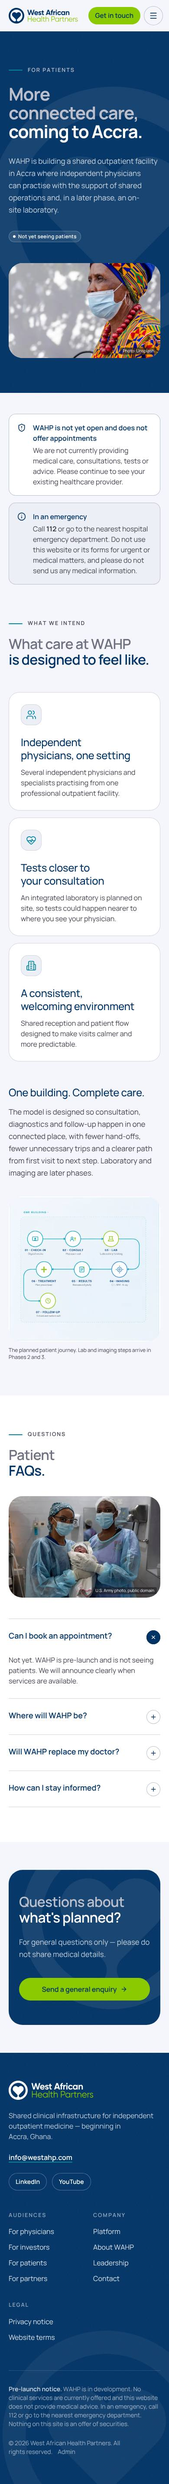
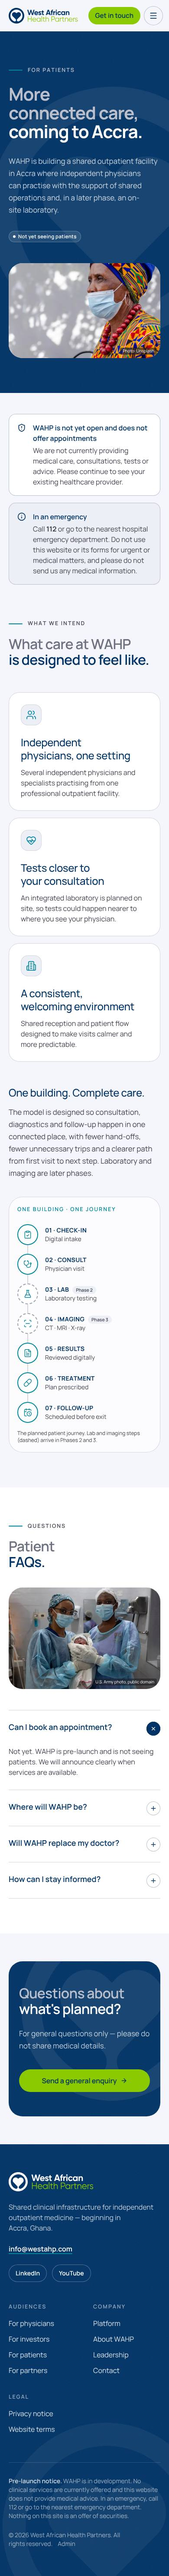
Animate the patient journey on the Patients page
Replaces the static patient-journey image with a live SVG: the route
draws from check-in to follow-up, each step pops in as the line reaches
it, then a dot travels the route and pauses at each step. Lab and
imaging are dashed and tagged Phase 2 / Phase 3. Phones get a vertical
step list, which is also the accessible version. Shows the finished
diagram without JS or with reduced motion.

Claude-Session: https://claude.ai/code/session_01HnAJZsQvwk15KduVTL9xGz

diff --git a/src/components/graphics/patient-journey.tsx b/src/components/graphics/patient-journey.tsx
@@ -1,0 +1,155 @@
+import type { CSSProperties } from "react";
+import {
+  CalendarClock,
+  ClipboardCheck,
+  FileText,
+  FlaskConical,
+  type LucideIcon,
+  Pill,
+  ScanLine,
+  Stethoscope,
+} from "lucide-react";
+
+/**
+ * The planned patient journey in one building (redrawn from the diagram on WAHP's newer site build), animated:
+ * the route draws from check-in to follow-up, each step pops in as the line reaches it, then a dot travels the
+ * route, pausing at each step. Lab and imaging are later phases, so they are drawn dashed and tagged.
+ * Styles: .journey-map in globals.css. Without JS, or with reduced motion, the finished diagram shows.
+ * Phones get the same steps as a vertical list (also the accessible version of the diagram).
+ */
+type Step = { title: string; detail: string; icon: LucideIcon; phase?: string; x: number; y: number; at: number };
+
+const R = 38;
+// Serpentine route through the step centres; `at` is each step's position along it (0–1).
+const ROUTE =
+  "M110 130 H580 A40 40 0 0 1 620 170 V270 A40 40 0 0 1 580 310 H70 A40 40 0 0 0 30 350 V450 A40 40 0 0 0 70 490 H160";
+const steps: Step[] = [
+  { title: "Check-in", detail: "Digital intake", icon: ClipboardCheck, x: 110, y: 130, at: 0 },
+  { title: "Consult", detail: "Physician visit", icon: Stethoscope, x: 320, y: 130, at: 0.138 },
+  { title: "Lab", detail: "Laboratory testing", icon: FlaskConical, phase: "Phase 2", x: 530, y: 130, at: 0.276 },
+  { title: "Imaging", detail: "CT · MRI · X-ray", icon: ScanLine, phase: "Phase 3", x: 530, y: 310, at: 0.49 },
+  { title: "Results", detail: "Reviewed digitally", icon: FileText, x: 320, y: 310, at: 0.628 },
+  { title: "Treatment", detail: "Plan prescribed", icon: Pill, x: 110, y: 310, at: 0.766 },
+  { title: "Follow-up", detail: "Scheduled before exit", icon: CalendarClock, x: 160, y: 490, at: 1 },
+];
+
+const DRAW = 4.5; // seconds for the route to draw
+
+// The travelling dot pauses briefly at each step: move, hold, move, hold…
+const hold = 0.045;
+const moveSpan = 1 - hold * steps.length;
+const frames: string[] = [];
+let t = 0;
+steps.forEach((s, i) => {
+  if (i > 0) t += (s.at - steps[i - 1].at) * moveSpan;
+  frames.push(`${(t * 100).toFixed(1)}% { offset-distance: ${(s.at * 100).toFixed(1)}%; }`);
+  t += hold;
+  frames.push(`${(Math.min(t, 1) * 100).toFixed(1)}% { offset-distance: ${(s.at * 100).toFixed(1)}%; }`);
+});
+const travelKeyframes = `@keyframes journey-travel { ${frames.join(" ")} }`;
+
+const v = (vars: Record<string, string | number>) => vars as CSSProperties;
+
+export function PatientJourney({ className = "" }: { className?: string }) {
+  return (
+    <figure
+      className={`reveal journey-map rounded-panel bg-white/70 p-5 ring-1 ring-inset ring-smoke md:p-8 ${className}`}
+      style={v({ "--draw": `${DRAW}s` })}
+    >
+      <style>{travelKeyframes}</style>
+      <p className="eyebrow flex items-center gap-3 text-teal">One building · one journey</p>
+
+      {/* Phones: vertical steps. Also the accessible version on larger screens. */}
+      <ol className="mt-6 space-y-5 md:sr-only">
+        {steps.map((s, i) => {
+          const Icon = s.icon;
+          return (
+            <li key={s.title} className="journey-step relative flex items-center gap-4" style={v({ "--i": i })}>
+              <span
+                className={`relative z-10 flex size-12 shrink-0 items-center justify-center rounded-full border-2 bg-white text-teal ${s.phase ? "border-dashed border-space" : "border-teal"}`}
+              >
+                <Icon aria-hidden className="size-5" strokeWidth={1.75} />
+              </span>
+              <span>
+                <span className="block text-sm font-bold tracking-wide text-navy uppercase">
+                  {String(i + 1).padStart(2, "0")} · {s.title}
+                  {s.phase && (
+                    <span className="ml-2 rounded-full bg-cloud px-2 py-0.5 text-[0.65rem] font-semibold tracking-normal text-arsenic normal-case">
+                      {s.phase}
+                    </span>
+                  )}
+                </span>
+                <span className="block text-sm text-arsenic">{s.detail}</span>
+              </span>
+            </li>
+          );
+        })}
+      </ol>
+
+      {/* Larger screens: the animated route. Decorative; the list above carries the content. */}
+      <svg aria-hidden viewBox="0 0 650 600" className="mt-4 hidden h-auto w-full md:block">
+        <path d={ROUTE} fill="none" stroke="#D3D6E0" strokeWidth="2" />
+        <path className="journey-route" d={ROUTE} pathLength={1} fill="none" stroke="#00879E" strokeWidth="2.5" />
+        {/* Drawn beneath the steps, so the dot slips into each one as it pauses there. */}
+        <g className="journey-dot" style={v({ offsetPath: `path("${ROUTE}")` })}>
+          <circle r="13" fill="#00879E" opacity="0.18" />
+          <circle r="6.5" fill="#00879E" stroke="#FFFFFF" strokeWidth="2" />
+        </g>
+        {steps.map((s, i) => {
+          const Icon = s.icon;
+          return (
+            <g
+              key={s.title}
+              className="journey-node"
+              style={v({ "--at": s.at, "--i": i, transformOrigin: `${s.x}px ${s.y}px` })}
+            >
+              <circle
+                cx={s.x}
+                cy={s.y}
+                r={R}
+                fill="#FFFFFF"
+                stroke={s.phase ? "#9DA2B3" : "#00879E"}
+                strokeWidth="2.5"
+                strokeDasharray={s.phase ? "6 5" : undefined}
+              />
+              <Icon x={s.x - 14} y={s.y - 14} width={28} height={28} color="#00879E" strokeWidth={1.75} />
+              <text
+                x={s.x}
+                y={s.y + R + 26}
+                textAnchor="middle"
+                fill="#003366"
+                fontSize="14"
+                fontWeight="700"
+                letterSpacing="0.6"
+              >
+                {`${String(i + 1).padStart(2, "0")} · ${s.title.toUpperCase()}`}
+              </text>
+              <text x={s.x} y={s.y + R + 46} textAnchor="middle" fill="#6E7180" fontSize="12.5">
+                {s.detail}
+              </text>
+              {s.phase && (
+                <g>
+                  <rect x={s.x + 18} y={s.y - R - 6} width="62" height="20" rx="10" fill="#EDEFF7" stroke="#D3D6E0" />
+                  <text
+                    x={s.x + 49}
+                    y={s.y - R + 8}
+                    textAnchor="middle"
+                    fill="#40424D"
+                    fontSize="10.5"
+                    fontWeight="600"
+                  >
+                    {s.phase}
+                  </text>
+                </g>
+              )}
+            </g>
+          );
+        })}
+      </svg>
+
+      <figcaption className="mt-4 text-xs text-arsenic">
+        The planned patient journey. Lab and imaging steps (dashed) arrive in Phases 2 and 3.
+      </figcaption>
+    </figure>
+  );
+}

diff --git a/src/app/globals.css b/src/app/globals.css
@@ -410,6 +410,60 @@
   }
 }
 
+/* Patient journey (components/graphics/patient-journey.tsx): route draws, steps pop in, then a dot travels it. */
+.journey-map .journey-node {
+  transform-box: view-box;
+}
+.journey-map .journey-dot {
+  opacity: 0;
+  offset-rotate: 0deg;
+}
+.journey-step:not(:last-child)::before {
+  content: "";
+  position: absolute;
+  left: 23px;
+  top: 48px;
+  bottom: -20px;
+  width: 2px;
+  background: var(--color-smoke);
+}
+.js .journey-map .journey-route {
+  stroke-dasharray: 1;
+  stroke-dashoffset: 1;
+}
+.js .journey-map .journey-node {
+  opacity: 0;
+}
+.js .journey-map .journey-step {
+  opacity: 0;
+  transform: translate3d(0, 12px, 0);
+  transition:
+    opacity 0.9s var(--ease-soft),
+    transform 1s var(--ease-soft);
+  transition-delay: calc(var(--i) * 120ms + 200ms);
+}
+.js .journey-map.is-visible .journey-step {
+  opacity: 1;
+  transform: none;
+}
+.js .journey-map.is-visible .journey-route {
+  animation: em-draw var(--draw) linear 0.3s both;
+}
+.js .journey-map.is-visible .journey-node {
+  animation: em-pop 0.8s var(--ease-soft) both;
+  animation-delay: calc(0.25s + var(--at) * var(--draw));
+}
+.js .journey-map.is-visible .journey-dot {
+  animation:
+    journey-travel 11s ease-in-out calc(var(--draw) + 0.8s) infinite,
+    em-fade-in 0.6s ease calc(var(--draw) + 0.8s) both;
+}
+@supports not (offset-path: path("M0 0")) {
+  .journey-map .journey-dot {
+    display: none;
+  }
+}
+
 @media (prefers-reduced-motion: reduce) {
   html {
     scroll-behavior: auto;
@@ -430,8 +484,13 @@
   .expansion-map * {
     animation-delay: 0s !important;
   }
-  .js .expansion-map .em-ripple {
+  .js .expansion-map .em-ripple,
+  .js .journey-map .journey-dot {
     animation: none !important;
+  }
+  .journey-map * {
+    animation-delay: 0s !important;
+    transition-delay: 0s !important;
   }
   .scroll-recede,
   .scroll-sink,

diff --git a/src/components/ui/site-image.tsx b/src/components/ui/site-image.tsx
@@ -3,7 +3,6 @@ import lobby from "../../../public/images/concepts/lobby.webp";
 import consultation from "../../../public/images/concepts/consultation-suite.webp";
 import laboratory from "../../../public/images/concepts/laboratory.webp";
 import founders from "../../../public/images/photos/founders.webp";
-import patientJourney from "../../../public/images/photos/patient-journey.webp";
 import pillarLaboratory from "../../../public/images/photos/pillar-laboratory.webp";
 import pillarImaging from "../../../public/images/photos/pillar-imaging.webp";
 import patientPortrait from "../../../public/images/photos/patient-portrait.webp";
@@ -52,11 +51,6 @@ const images = {
     src: founders,
     kind: "photo",
     alt: "WAHP co-founders Jonathan Francois and Emmanuel Adomfeh standing together at an event.",
-  },
-  patientJourney: {
-    src: patientJourney,
-    kind: "diagram",
-    alt: "Patient journey in one building: check-in, consult, lab, imaging, results, treatment and follow-up.",
   },
   pillarLaboratory: {
     src: pillarLaboratory,

diff --git a/src/app/(site)/patients/page.tsx b/src/app/(site)/patients/page.tsx
@@ -1,5 +1,6 @@
 import type { Metadata } from "next";
 import { Building2, HeartPulse, Users } from "lucide-react";
+import { PatientJourney } from "@/components/graphics/patient-journey";
 import { PageHero } from "@/components/sections/page-hero";
 import { CtaBand } from "@/components/sections/cta-band";
 import { Faq } from "@/components/sections/faq";
@@ -98,13 +99,7 @@ export default function PatientsPage() {
               imaging are later phases.
             </p>
           </div>
-          <SiteImage
-            name="patientJourney"
-            className="reveal"
-            fit="contain"
-            aspect="aspect-[21/20]"
-            caption="The planned patient journey. Lab and imaging steps arrive in Phases 2 and 3."
-          />
+          <PatientJourney />
         </div>
       </Section>
 

diff --git a/docs/ASSET_INVENTORY.md b/docs/ASSET_INVENTORY.md
@@ -45,6 +45,6 @@
 
 **Removed** (replaced by the photos above): the source-site photos `physician-consultation`, `clinic-conversation`, `pillar-suites`, `pillar-digital`, `patient-checkup`, `hospital-corridor`, `physician-with-patient`, `diaspora-physician`, `investor-banner`, `family-consultation` and `partners-meeting` (the Home investors card used `clinic-interior`, now replaced by the owner-supplied `investor-lounge`). Later, `doctor-labcoat-kinshasa` was replaced by `doctor-stethoscope` in the Physicians diaspora section.
 
-**Kept from the source sites (no doctor shown):** `pillar-laboratory`, `pillar-imaging` (technologist), `founders`, `patient-journey`.
+**Kept from the source sites (no doctor shown):** `pillar-laboratory`, `pillar-imaging` (technologist), `founders`. The `patient-journey` diagram was redrawn as an animated SVG (`components/graphics/patient-journey.tsx`) and the image removed.
 
 **Not used:** stock photos showing identifiable public figures or named individuals (for example, a UK minister's hospital visit and a profile photo of a named Korle Bu nurse), and US military surgical-mission photos.

diff --git a/docs/IMPLEMENTATION_LOG.md b/docs/IMPLEMENTATION_LOG.md
@@ -137,3 +137,11 @@
 ## 21 Oct 2026, investors card image
 
 - The Home investors card now uses the owner-supplied `investor-lounge` image, shown with the "Illustrative image" badge. It replaces `clinic-interior`, which was removed.
+
+## 21 Oct 2026, animated patient journey
+
+- The Patients page's patient-journey image is now a live SVG (`PatientJourney`):
+  1. The route draws from Check-in to Follow-up, and each step pops in as the line reaches it.
+  2. A dot then travels the route, pausing at each step.
+- Lab and Imaging are dashed and tagged "Phase 2" and "Phase 3". Phones get a vertical step list, which is also the accessible version on all sizes.
+- Without JS, or with reduced motion, the finished diagram shows. The static `patient-journey.webp` was removed.
